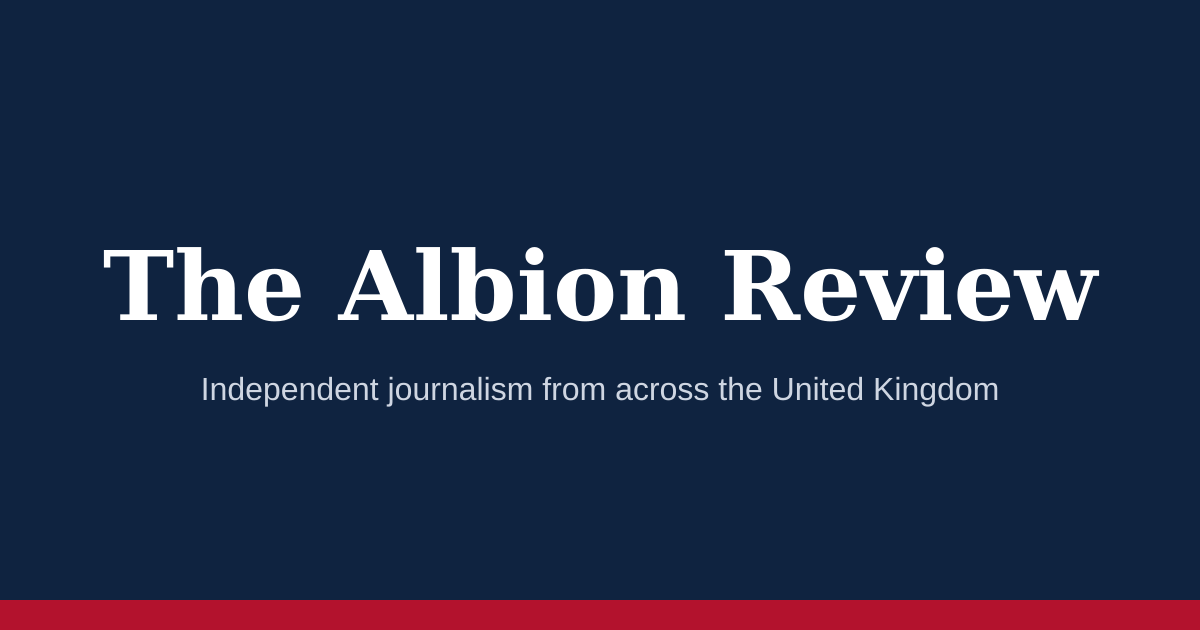
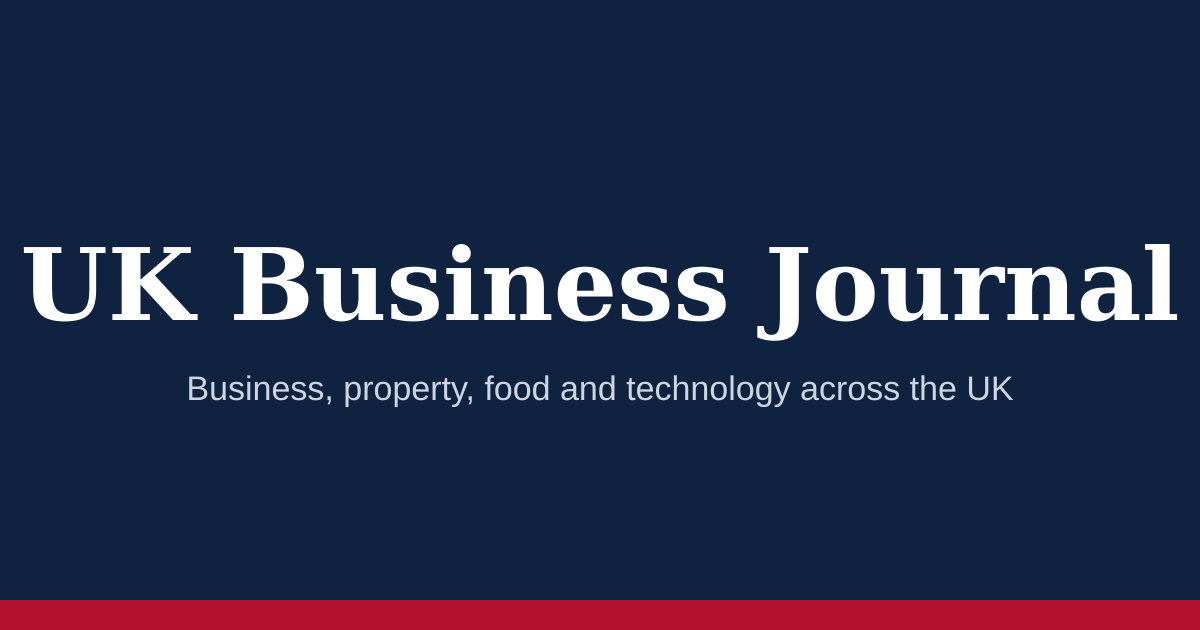
Rename the magazine to UK Business Journal
Updates the name, tagline, description and publisher in config, the about
page, README, favicon and social share image. The welcome article moves
to /articles/welcome-to-uk-business-journal/ with a 301 from the old URL
(_redirects for Cloudflare/Netlify, vercel.json for Vercel).

Claude-Session: https://claude.ai/code/session_015b49GJH38tuArceJvxirn7

Changed region(s): [[0.0, 0.3921, 0.9867, 0.5429], [0.1542, 0.6032, 0.8633, 0.6635]]

diff --git a/src/config.ts b/src/config.ts
@@ -2,18 +2,18 @@
 // rebrand the site; no other file needs editing.
 
 export const SITE = {
-  name: 'The Albion Review',
-  shortName: 'Albion',
-  tagline: 'Independent journalism from across the United Kingdom',
+  name: 'UK Business Journal',
+  shortName: 'UKBJ',
+  tagline: 'Business, property, food and technology across the UK',
   description:
-    'The Albion Review is an independent UK magazine covering news, business, culture, food, travel and life across England, Scotland, Wales and Northern Ireland.',
+    'UK Business Journal is an independent magazine covering business, property, hospitality, technology and life across England, Scotland, Wales and Northern Ireland.',
   locale: 'en-GB',
   lang: 'en',
   timezone: 'Europe/London',
   email: 'editor@example.co.uk',
   // Registered-office style details shown in the footer and on the contact page.
   publisher: {
-    name: 'The Albion Review Ltd',
+    name: 'UK Business Journal',
     address: 'London, United Kingdom',
   },
   social: {
@@ -45,8 +45,8 @@ export type CategorySlug = (typeof CATEGORIES)[number]['slug'];
 export const AUTHORS = {
   'editorial-team': {
     name: 'Editorial Team',
-    role: 'The Albion Review',
-    bio: 'Reporting and analysis from the Albion Review newsroom.',
+    role: 'UK Business Journal',
+    bio: 'Reporting and analysis from the UK Business Journal newsroom.',
   },
   'eleanor-hughes': {
     name: 'Eleanor Hughes',

diff --git a/src/content/articles/welcome-to-uk-business-journal.md b/src/content/articles/welcome-to-uk-business-journal.md
@@ -1,5 +1,5 @@
 ---
-title: "Welcome to The Albion Review"
+title: "Welcome to UK Business Journal"
 description: "A new independent magazine about life in every corner of the United Kingdom, and what you can expect from us."
 category: news
 author: editorial-team
@@ -8,12 +8,12 @@ featured: true
 tags: [announcement, about us]
 location: London
 imageQuery: "newspaper"
-cover: "../../assets/covers/welcome-to-the-albion-review.jpg"
+cover: "../../assets/covers/welcome-to-uk-business-journal.jpg"
 coverAlt: "A folded stack of newspapers"
 coverCredit: "Photo: Unknown / rawpixel (CC0 1.0)"
 ---
 
-Welcome to the first edition of The Albion Review, a magazine for readers who want to understand the whole of the United Kingdom, not just the bits that make the national headlines.
+Welcome to the first edition of UK Business Journal, a magazine for readers who want to understand the whole of the United Kingdom, not just the bits that make the national headlines.
 
 ## Why another magazine?
 

diff --git a/src/pages/about.md b/src/pages/about.md
@@ -4,7 +4,7 @@ title: About us
 intro: An independent magazine about life across the United Kingdom.
 ---
 
-The Albion Review publishes reporting, features and reviews from England, Scotland, Wales and Northern Ireland. We cover the stories that matter to people's everyday lives: the economy and the high street, culture and the arts, food, travel and the places we call home.
+UK Business Journal publishes reporting, features and reviews from England, Scotland, Wales and Northern Ireland. We cover the stories that matter to people's everyday lives: the economy and the high street, culture and the arts, food, travel and the places we call home.
 
 ## What we believe
 

diff --git a/README.md b/README.md
@@ -1,4 +1,4 @@
-# The Albion Review: UK magazine website
+# UK Business Journal: UK magazine website
 
 A fast, static UK magazine built with [Astro](https://astro.build). The same code deploys unchanged to **Netlify**, **Vercel** and **Cloudflare Pages**.
 
